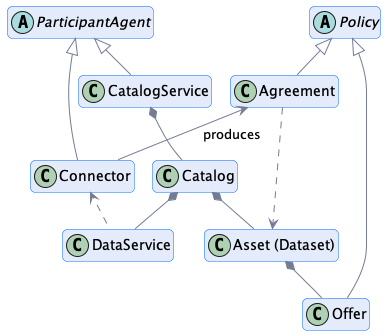
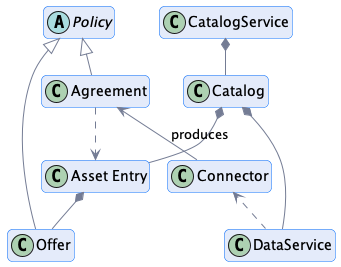
Work on info model

diff --git a/model/core/information.model.md b/model/core/information.model.md
@@ -1,68 +1,153 @@
 # Dataspace Information Model
 
-The information model defines the core concepts, entities, and relationships that underpin a 'Dataspace'.  
+The information model defines the core concepts, entities, and relationships that underpin a 'Dataspace'.
 
-## 1. Core Definitions
+## 1. Terminology
 
-### Dataspace 
-A `Dataspace` is a set of technical services that facilitate interoperable asset sharing between entities.  
+### Dataspace
+
+A `Dataspace` is a set of technical services that facilitate interoperable asset sharing between entities.
 
 ### DataspaceAuthority
+
 A `DataspaceAuthority` is an entity that manages a `Dataspace`.
 
 ### Participant
-A `Participant` is a `Dataspace` member that provides and/or consumes assets.   
+
+A `Participant` is a `Dataspace` member that provides and/or consumes assets.
 
 ### ParticipantAgent
-A `ParticipantAgent` is a technology system that performs operations on behalf of a `Participant`.   
+
+A `ParticipantAgent` is a technology system that performs operations on behalf of a `Participant`.
 
 ### IdentityProvider
+
 An `IdentityProvider` is a trusted technology system that creates, maintains, and manages identity information for a `Participant` and `ParticipantsAgent`.
 
 ### CredentialIssuer
-A `CredentialIssuer` is a trusted technology system that issues verifiable credentials for a `Participant` and `ParticipantsAgent`. 
+
+A `CredentialIssuer` is a trusted technology system that issues verifiable credentials for a `Participant` and `ParticipantsAgent`.
 
 ### ClearingHouse
-A `ClearingHouse` is a trusted technology system that records and verifies domain events. 
+
+A `ClearingHouse` is a trusted technology system that records and verifies domain events.
 
 ### DataspaceRegistrationService
+
 A `DataspaceRegistrationService` is a technology system that maintains the state of `Participants` in a `Dataspace`.
 
 ### Asset
-Data or a technical service that can be shared by a `Participant`.    
+
+Data or a technical service that can be shared by a `Participant`.
 
 ### Policy
+
 A set of rules, duties, and obligations that define the terms of use for an `Asset`.
 
 ### Offer
+
 A concrete `Policy` associated with a specific `Asset`.
 
 ### Agreement
-A concrete `Policy` associated with a specific `Asset` that has been signed by both the provider and consumer `Participants`. 
+
+A concrete `Policy` associated with a specific `Asset` that has been signed by both the provider and consumer `Participants`.
 
 ### Catalog
-A collection of `Assets` and their `Offers` that is advertised by a provider `Participant`. 
+
+A collection of entries representing `Assets` and their `Offers` that is advertised by a provider `Participant`.
 
 ### CatalogService
+
 A `PariticipantAgent` that makes a `Catalog` accessible to `Participants`.
-                                
+
 ### Connector (DataService)
+
 A `PariticipantAgent` that produces `Agreements` and manages `Asset` sharing.
 
 ### Contract Negotiation
-A set of interactions between a provider `Connector` and consumer `Connector` that establish an `Agreement`. 
+
+A set of interactions between a provider `Connector` and consumer `Connector` that establish an `Agreement`.
 
 ### Asset Transfer
-A set of interactions between a provider `Connector` and consumer `Connector` that provide access to an `Asset` under the terms of an `Agreement`. 
 
-## 2. Dataspace Entity Relationships                          
+A set of interactions between a provider `Connector` and consumer `Connector` that give access to an `Asset` under the terms of an `Agreement`.
 
-The following diagram depicts the relationships between the primary dataspace entities:
-                                   
+## 2. Dataspace Information Model
+
+The following sections outline the Dataspace Information Model, which form the foundation of this specification.
+
+## 2.1 Dataspace Entity Relationships
+
+The relationships between the primary dataspace entities are defined as follows:
+
 ![](./im.dataspace.relationships.png)
 
 Note that all relationships are multiplicities unless specified.
 
-The following diagram depicts the relationships between `ParticipantAgent` types: 
+- A `Dataspace Authority` manges one or more `Dataspaces`. This will include participant registration and may entail mandating business and/or requirements. For example, a
+  Dataspace Authority may require participants to obtain some form of business certification. A Dataspace authority may also impose technical requirements such as support for the
+  technical enforcements of specific usage policies.
+- A `Participant` is a member of one or more `Dataspaces`. A participant registers `Participant Agents` that perform tasks on its behalf.
+- A `Participant Agent` performs tasks such as publishing a catalog or engaging in an asset transfer. In order to accomplish these tasks, a participant agent may
+  use a _**verifiable presentation**_ generated from a _**credential**_ obtained from a third-party issuer. A participant agent may also use an _**ID token**_ issued by a
+  third-party identity provider. Note that a participant agent is a logical construct and does not necessarily correspond to a single runtime process.
+- An `Identity Provider` is trust anchor that generates `ID tokens` used to verify the identity of a `Participant Agent`. Multiple identity providers may operate in
+  a dataspace. The identity standard used by a provider is not defined but could be _OAuth2_ or _Decentralized Identifiers using did:web_. An identity provider may be a third-party
+  or a participant itself (for example, in the case of decentralized identifiers).
+- A `Credential Issuer` issues _verifiable credentials_ used by participant agents to allow access to assets and verify usage control.
+- A `Clearing House` is used by a participant agent to record or verify an event such as the receipt of a contract agreement signature.
+
+The diagram below depicts the relationships between `ParticipantAgent` types:
 
 ![](./im.participant.entities.png)
+
+- A `CatalogService` is a `Participant Agent` that makes a [DCAT Catalog](https://www.w3.org/TR/vocab-dcat-3/#Class:Catalog) available to other participants.
+- A `Catalog` contains one or more `Asset Entries`, which are [DCAT Datasets](https://www.w3.org/TR/vocab-dcat-3/#Class:Dataset). A `Catalog` also contains **_at least one_**
+  [DCAT DataService](https://www.w3.org/TR/vocab-dcat-3/#Class:Data_Service) that references a `Connector` where assets may be obtained.
+- An `Asset Entry` has **one** `Offer`, which is an [ODRL Offer](https://www.w3.org/TR/odrl-model/#policy-offer) describing the _usage control policy_ associated with the asset.
+- A `Connector` is a `Participant Agent` that performs `Contract Negotiation` and `Asset Transfer` operations with another connector. An outcome of a `ContractNegotiation` may
+  be the production of an `Agreement`, which is an [ODRL Agreement](https://www.w3.org/TR/odrl-model/#policy-agreement) defining the _usage control policy_ agreed to for an asset.
+
+## 2.2 Classes
+
+Not all dataspace entities have a concrete _technical_ materialization; some entities may exist as purely logical constructs. For example, a `Dataspace Authority`
+and `Participant Agent` have no representation in the protocol message flows that constitute dataspace interactions. This section outlines the classes that constitute the concrete
+elements of the information model, i.e. those that are represented in protocol message flows.
+
+### 2.2.1 Catalog
+
+A `Catalog` is a DCAT [DCAT Catalog](https://www.w3.org/TR/vocab-dcat-3/#Class:Catalog) with the following attributes:
+
+- 0..N  `Asset Entries`. Since a catalog may be dynamically generated for a request based on the requesting participant's credentials it is possible for it to contain 0 matching
+  asset entries.  (DCAT PROFILE)
+- 1.N [DCAT DataService](https://www.w3.org/TR/vocab-dcat-3/#Class:Data_Service) that references a `Connector` where assets may be obtained.  (DCAT PROFILE)
+
+### 2.2.1 Asset Entry
+
+An `Asset Entry` is a [DCAT Dataset](https://www.w3.org/TR/vocab-dcat-3/#Class:Dataset) with the following attributes:
+
+- 1..N `hasPolicy` attributes that contain an ODRL `Offer` defining the usage control policy associated with the asset. **_Offers must NOT contain any target attributes. The
+  target of an offer is the asset associated with the containing asset entry._** (ODRL PROFILE)
+- 1..N [DCAT Distributions](https://www.w3.org/TR/vocab-dcat-3/#Class:Distribution). Each distribution must have at least one `DataService` which specifies where the distribution
+  is obtained. Specifically, a `DataService` specifies the endpoint for initiating a `ContractNegotiation` and `AssetTransfer`. (DCAT PROFILE)
+
+### 2.2.1 Offer
+
+An `Offer` is an [ODRL Offer](https://www.w3.org/TR/odrl-model/#policy-offer) with the following attributes:
+
+- An ODRL `uid` that is a unique UUID. (ODRL PROFILE)
+- The `Offer` must be unique to a dataset since the target of the offer is derived from its enclosing context.
+- The `Offer` must NOT include an explicit `target` attribute.
+
+### 2.2.1 Agreement
+
+An `Agreement` is an [ODRL Agreement(https://www.w3.org/TR/odrl-model/#policy-agreement) with the following attributes:
+
+- An ODRL `uid` that is a unique UUID. (ODRL PROFILE)
+- The `Agreement` class must include one `target` attribute that is the UUID of the asset the agreement is associated with. An agreement is therefore associated with **EXACTLY ONE**
+  asset. (ODRL PROFILE)
+
+
+
+
+
